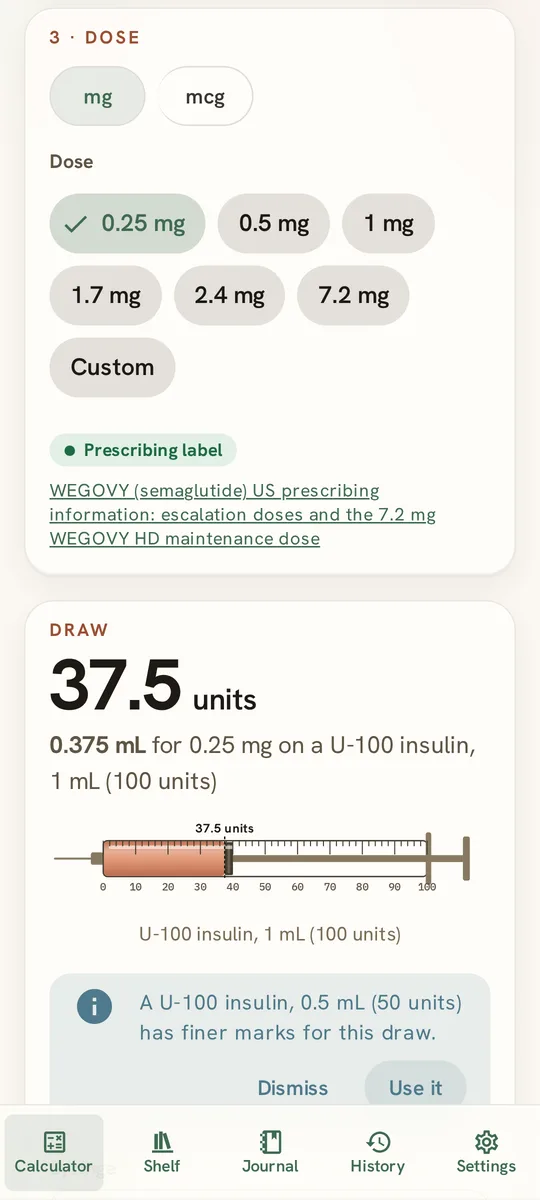
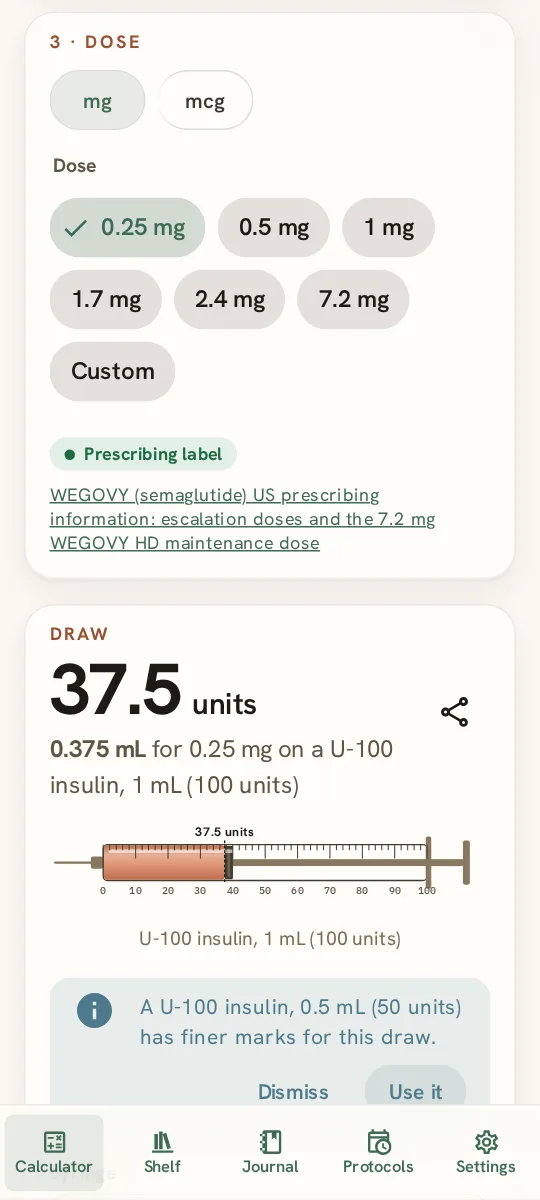
update screenshot with new countdown circle and protocol

diff --git a/site/index.html b/site/index.html
@@ -91,7 +91,7 @@
                 src="assets/screens/levels.webp"
                 width="540"
                 height="1200"
-                alt="PepCalc's level chart: an estimate of semaglutide in the body over time from logged draws"
+                alt="PepCalc's Protocols tab: a countdown ring to the next dose of BPC-157 and semaglutide, then an estimate of semaglutide in the body from logged draws"
               />
             </picture>
           </div>
